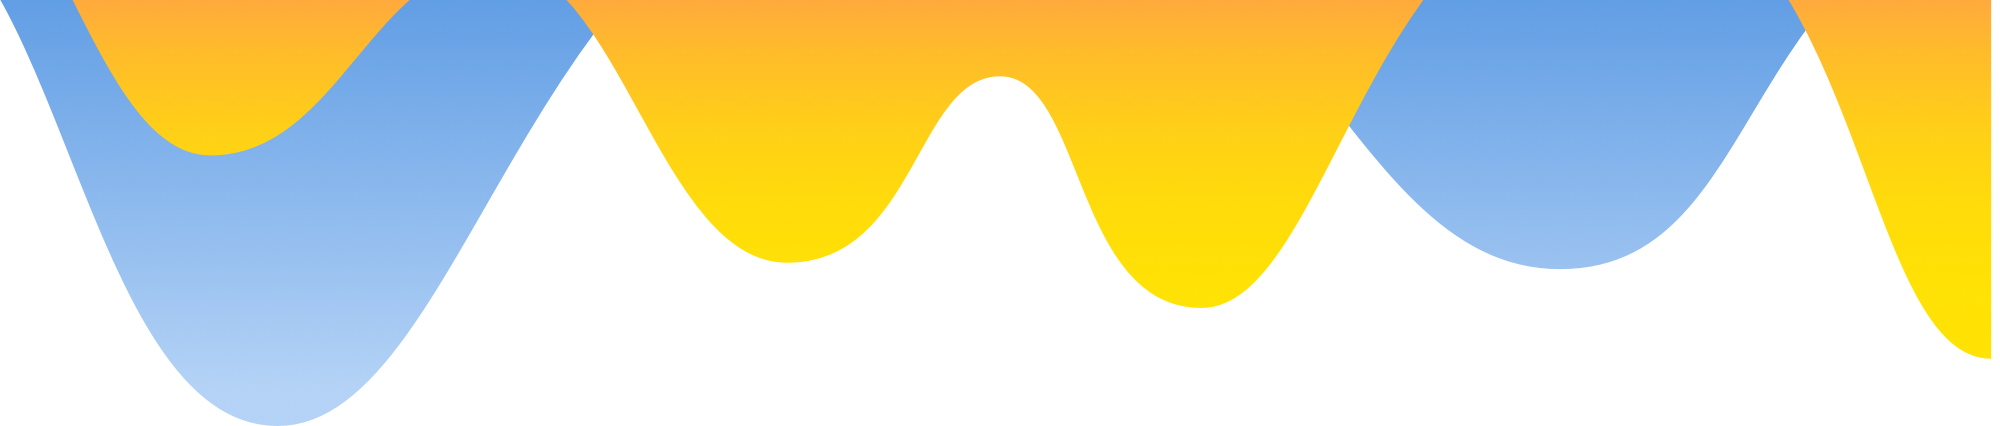
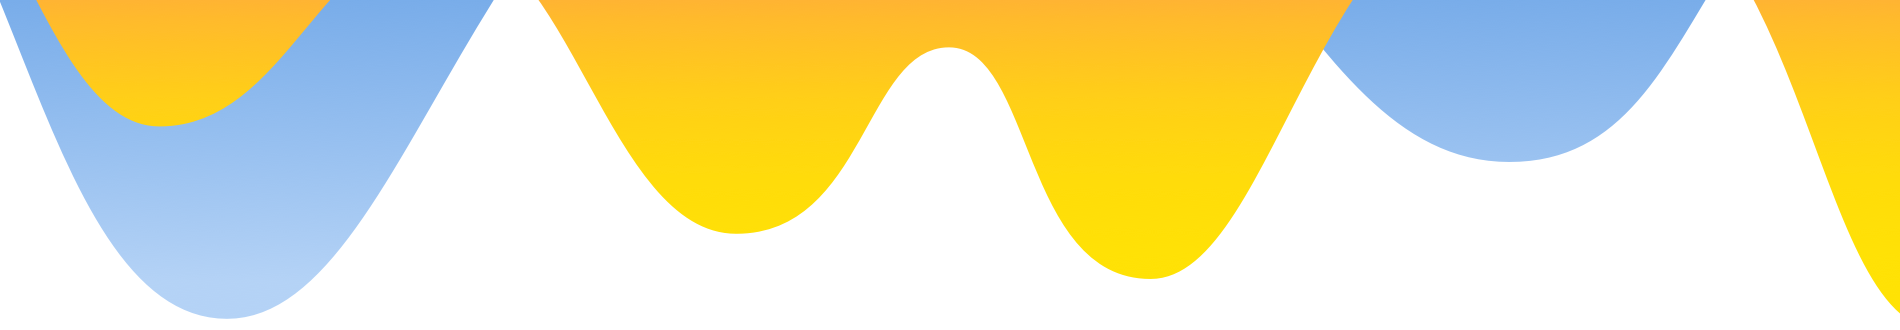
update

diff --git a/index.html b/index.html
@@ -7,7 +7,7 @@
 
   <title>Clarity - Making Life Easier!</title>
 
-  <link href='https://fonts.googleapis.com/css?family=Lato' rel='stylesheet' type='text/css'>
+  <link href='https://fonts.googleapis.com/css?family=Lato:400,700italic' rel='stylesheet' type='text/css'>
   <link href="css/main.css" rel='stylesheet' type='text/css'>
 
   <meta name="keywords" content="">
@@ -15,6 +15,25 @@
 
 </head>
 <body>
+
+  <h1>Clarity</h1>
+
+  <h2>Balance sheets, cash flows to financial rations and hundreds more…
+All your informations directly in one simple interface &mdash; which tells exactly what you need.</h2>
+
+  <p>Soon available in <img src="assets/canada_flag.png" alt="Flag of Canada" /> Canada</p>
+
+  <footer>2015 &copy; Clarity! All Rights Reserved.<br>
+    <a href="#">Home</a> &middot;
+    <a href="#">Features</a> &middot;
+    <a href="#">Security</a> &middot;
+    <a href="#">Privacy</a> &middot;
+    <a href="#">Intergrations</a> &middot;
+    <a href="#">Status</a> &middot;
+    <a href="#">Support</a> &middot;
+    <a href="#">Terms of Service</a> &middot;
+    <a href="#">Contact Us</a>
+  </footer>
 
 </body>
 </html>

diff --git a/css/main.css b/css/main.css
@@ -2,6 +2,10 @@ body {
   font-family: 'Lato', sans-serif;
   color: #030E1B;
   margin: auto;
+  background-image: url('../assets/bg.png');
+  background-repeat: no-repeat;
+  background-attachment: top;
+  background-position: center;
 }
 
 img { border: 0; }
@@ -12,14 +16,14 @@ img { border: 0; }
   display: flex;
 }
 
-a { text-decoration: none; }
+a {
+  text-decoration: none;
+  color: #748599;
+}
 
 a:visited { color: gray; }
 
-a:hover {
-  text-decoration: underline;
-  color: #748599;
-}
+a:hover { color: #4A90E2; }
 
 footer {
   font-size: 18px;
@@ -32,7 +36,7 @@ p {
   line-height: 36px;
 }
 
-h1 {
+h2 {
   font-size: 32px;
   line-height: 46px;
 }

diff --git a/dist/main.css b/dist/main.css
@@ -1,1 +1,1 @@
-body{font-family:Lato,sans-serif;margin:auto}img{border:0}.container{display:-webkit-flex;display:-ms-flexbox;display:flex}
+body{font-family:Lato,sans-serif;color:#030E1B;margin:auto}img{border:0}.container{display:-webkit-flex;display:-ms-flexbox;display:flex}a{text-decoration:none}a:visited{color:gray}a:hover{text-decoration:underline;color:#748599}footer{font-size:18px;color:#1C2530;line-height:29px}p{font-size:22px;line-height:36px}h1{font-size:32px;line-height:46px}
